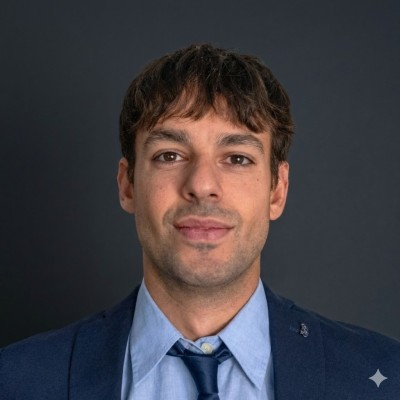
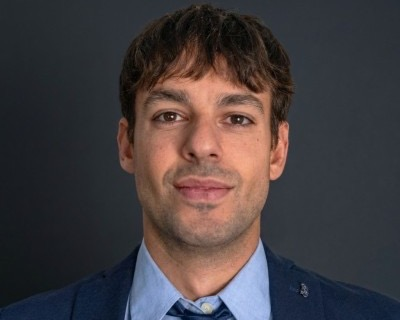
Corrige el recorte de la foto: elimina la marca de agua desde el origen
En vez de compensar la marca de agua de IA con un recorte lateral
asimétrico, se recorta la franja inferior del archivo original donde
estaba (400x400 -> 400x320). Esto permite volver a un recorte cuadrado
simétrico en CSS, con mucho menos contenido perdido por los lados.

diff --git a/index.html b/index.html
@@ -57,7 +57,7 @@
   <section class="hero" id="top">
     <div class="wrap hero-inner">
       <div class="hero-photo">
-        <img src="assets/images/profile.jpg" alt="Retrato de Carlos Pérez Ródenas" width="400" height="400" loading="eager">
+        <img src="assets/images/profile.jpg" alt="Retrato de Carlos Pérez Ródenas" width="400" height="320" loading="eager">
       </div>
       <div class="hero-text">
         <p class="eyebrow" data-i18n="hero.eyebrow">Kuala Lumpur</p>

diff --git a/css/styles.css b/css/styles.css
@@ -204,9 +204,8 @@ a:hover { color: var(--accent); }
   display: block;
   width: 100%;
   height: auto;
-  aspect-ratio: 4 / 5;
+  aspect-ratio: 1 / 1;
   object-fit: cover;
-  object-position: 0% 20%;
   border-radius: var(--radius);
   border: 1px solid var(--border);
 }
